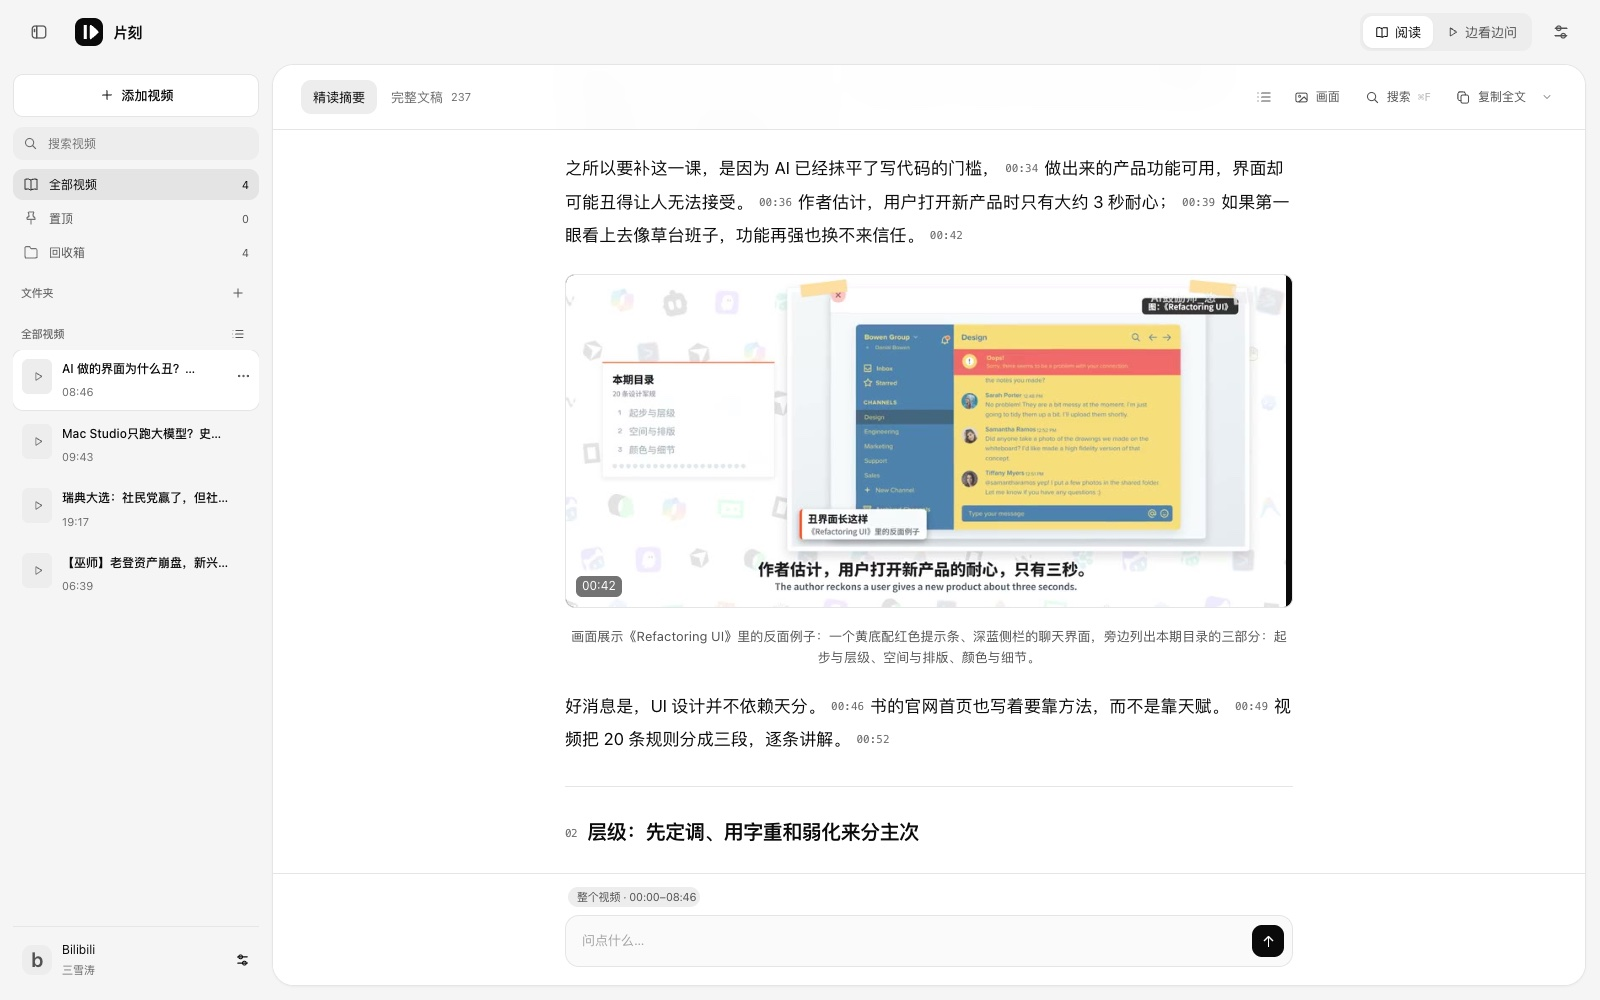
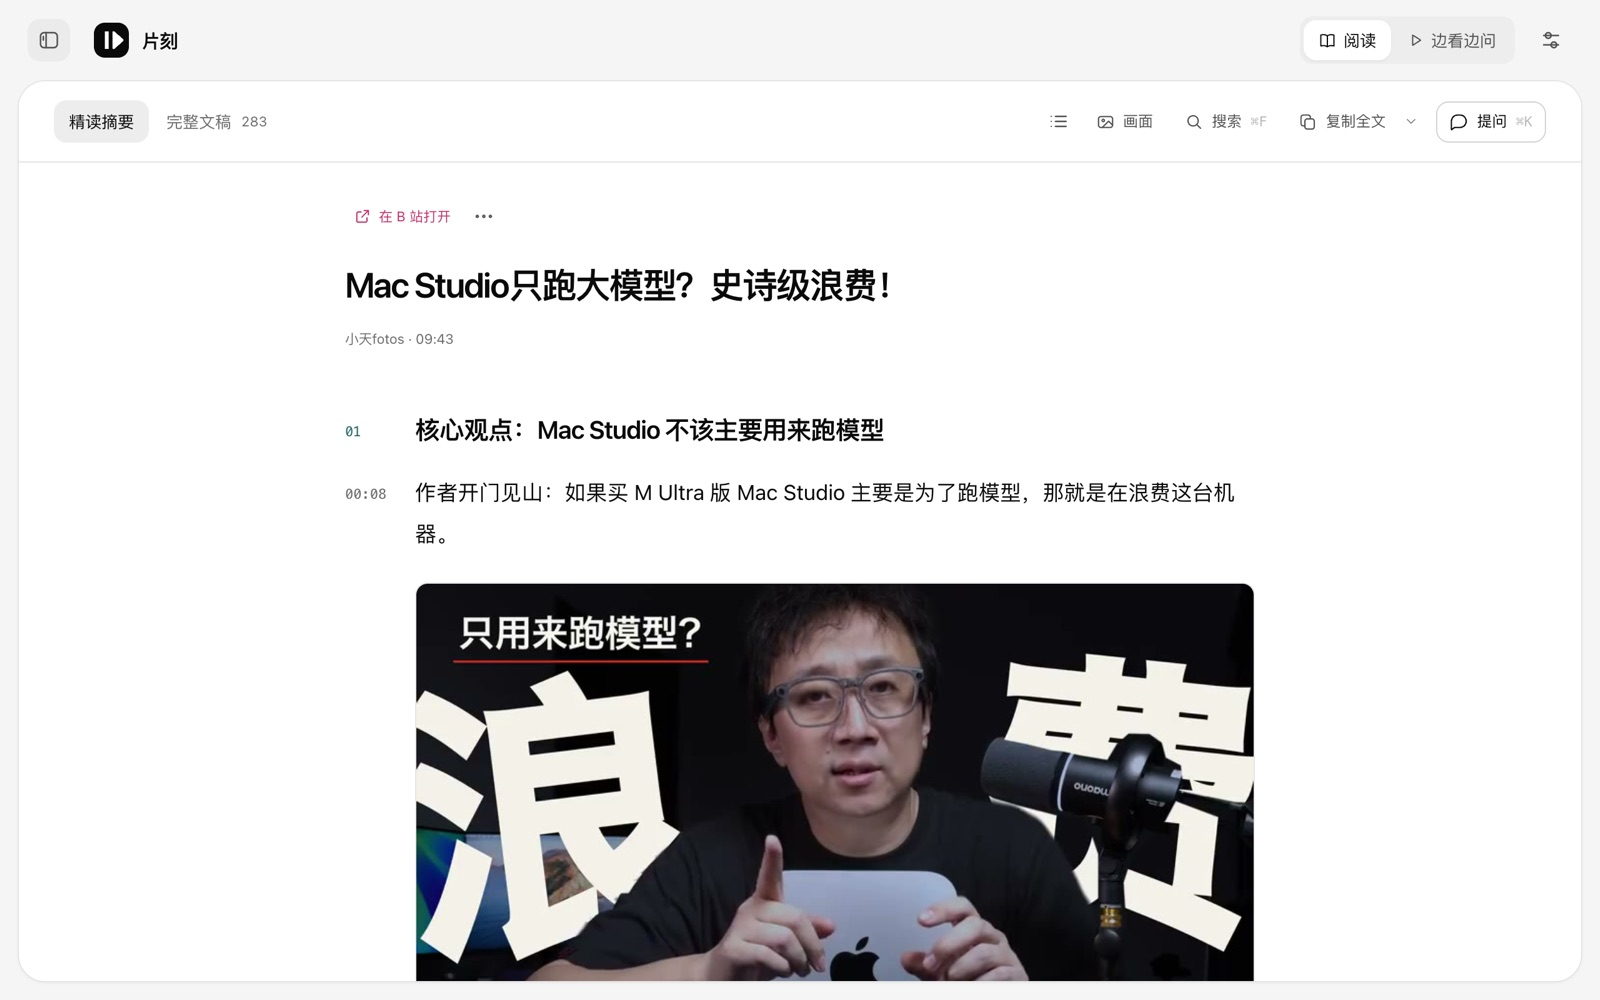
Show Pianke through pictures: its idea and three steps to use it (#2)
The project page now says what Pianke is for in one paragraph, then
shows how to use it in three illustrated steps: set up once (sign in to
Bilibili, add an API key), paste a Bilibili link, read and ask. The
features, data and notes lists give way to a single line on where
transcription runs. Every picture is a new screenshot of the current
reader on a Mac Studio video, with the sidebar closed and no account or
key details in view; the Watch and ask step spans the full width.

In the Projects list the English name is Pianke and the Chinese 片刻,
with the same new screenshots.

diff --git a/frontend/components/sections/Pianke.tsx b/frontend/components/sections/Pianke.tsx
@@ -11,128 +11,54 @@ type Text = Record<Lang, string>;
 // Always the newest release; scripts/release in the 片刻 repository keeps this name current.
 const DOWNLOAD_URL = "https://download.waynewangyuxuan.com/pianke/Pianke.dmg";
 
-const images: ProjectImage[] = [
-  {
-    src: "/projects/pianke-read.jpg",
-    alt: "Reading: a close-reading summary with key frames in the text",
-    label: { en: "Read", zh: "阅读" },
-  },
-  {
-    src: "/projects/pianke-watch.jpg",
-    alt: "Watch and ask: the player on the left, the text on the right",
-    label: { en: "Watch and ask", zh: "边看边问" },
-  },
-];
-
 const copy = {
   back: { en: "Projects", zh: "项目" },
   name: { en: "Pianke 片刻", zh: "片刻" },
-  tagline: {
-    en: "Turn Bilibili videos into text you can read, question and play back. Transcription runs on your own Mac.",
-    zh: "把 B 站视频变成能读、能问、能回看的文字。转写在你自己的 Mac 上完成。",
+  idea: {
+    en: "A good Bilibili video keeps its ideas locked in speech: you watch it start to finish, and finding one line again is hard. Pianke turns it into text you can read in minutes and question as you go, and every line takes you back to its moment in the video.",
+    zh: "B 站上的好视频，内容都锁在声音里：只能从头看到尾，想回头找一句话也难。片刻把它变成文字，几分钟读完，边读边问，每一句都能点回视频里的那一刻。",
   },
   download: { en: "Download for Mac", zh: "下载 Mac 版" },
   requirements: { en: "Apple silicon · macOS 26.2 or later · Free", zh: "Apple 芯片 · macOS 26.2 或更新 · 免费" },
-  featuresTitle: { en: "What it does", zh: "片刻能做什么" },
-  startTitle: { en: "Getting started", zh: "怎么开始" },
-  dataTitle: { en: "Where your data goes", zh: "你的数据在哪里" },
-  notesTitle: { en: "Good to know", zh: "需要知道的" },
+  howTitle: { en: "How it works", zh: "怎么用" },
+  privacy: {
+    en: "Transcription runs on your Mac. Only summaries and questions send text to the AI service you chose, with your own key.",
+    zh: "转写在你的 Mac 上完成。只有摘要和提问会把文字发给你选的 AI 服务，用的是你自己的 key。",
+  },
 } satisfies Record<string, Text>;
 
-const features: { title: Text; body: Text }[] = [
-  {
-    title: { en: "Close-reading summary", zh: "精读摘要" },
-    body: {
-      en: "Each video becomes notes in sections. Every claim carries the time of the words it rests on; click it to see the quote and play from there.",
-      zh: "把一期视频整理成分章节的笔记。每句结论都标着原话的时间点，点一下就能看到原话、从那里播放。",
-    },
-  },
-  {
-    title: { en: "Watch and ask", zh: "边看边问" },
-    body: {
-      en: "Ask while you watch. Answers draw only on what this video says, with the sources attached.",
-      zh: "边看边提问。回答只依据这期视频说过的话，并附上出处。",
-    },
-  },
-  {
-    title: { en: "Key frames", zh: "关键画面" },
-    body: {
-      en: "Slides, charts and screen demos are picked out and placed in the text. Click a frame to play the moment around it.",
-      zh: "自动挑出幻灯片、图表、界面演示这类画面，放进文字里。点一下画面，就播放那一刻前后的片段。",
-    },
-  },
-  {
-    title: { en: "Local transcription", zh: "本地转写" },
-    body: {
-      en: "Speech becomes timed text on your Mac. It tells speakers apart and can fix misheard words from context.",
-      zh: "声音在你的 Mac 上转成带时间的文字，能区分不同的说话人，也能根据上下文校对错字。",
-    },
-  },
+const hero: ProjectImage[] = [
+  { src: "/projects/pianke-read.jpg", alt: "Pianke reading a video as a summary in sections, with key frames in the text", label: { en: "Read", zh: "阅读" } },
 ];
 
-const steps: Text[] = [
+// A wide step shows its picture across the full column; the others sit beside their text.
+const steps: { title: Text; body: Text; image: ProjectImage; wide?: boolean }[] = [
   {
-    en: "Download Pianke, open the disk image and drag Pianke into Applications.",
-    zh: "下载片刻，打开磁盘映像，把片刻拖进「应用程序」。",
+    title: { en: "Set up once", zh: "准备一次" },
+    body: {
+      en: "Sign in to Bilibili from the menu bar, then add your API key for Claude, OpenAI or DeepSeek in Settings → AI services.",
+      zh: "在菜单栏登录哔哩哔哩，再到「设置 → AI 服务」填上你的 API key：Claude、OpenAI 或 DeepSeek 都行。",
+    },
+    image: { src: "/projects/pianke-ai.jpg", alt: "Settings, AI services: choose Claude, OpenAI or DeepSeek and a model", label: { en: "AI services", zh: "AI 服务" } },
   },
   {
-    en: "The first time it opens, pick a speech recognition model and download it once: Standard (about 481 MB) or Light (about 144 MB).",
-    zh: "第一次打开时，选一个语音识别模型下载一次：「标准」约 481 MB，「轻量」约 144 MB。",
+    title: { en: "Paste a link", zh: "粘贴一个链接" },
+    body: {
+      en: "Copy a Bilibili video link and paste it into Add video. That is the whole input; Pianke turns it into text on your Mac.",
+      zh: "复制一个 B 站视频链接，粘贴进「添加视频」。输入就这么多，片刻会在你的 Mac 上把它变成文字。",
+    },
+    image: { src: "/projects/pianke-add.jpg", alt: "Add video, with a Bilibili link pasted in", label: { en: "Add video", zh: "添加视频" } },
   },
   {
-    en: "Click Add video and paste a Bilibili link. BV ids, av ids and b23.tv short links all work.",
-    zh: "点「添加视频」，粘贴 B 站链接。BV 号、av 号、b23.tv 短链接都可以。",
-  },
-  {
-    en: "Optional: for summaries and questions, connect Claude, OpenAI or DeepSeek with your own API key in Settings → AI services.",
-    zh: "可选：要用精读摘要和提问，在「设置 → AI 服务」里连接 Claude、OpenAI 或 DeepSeek，填入你自己的 API key。",
-  },
-];
-
-const data: Text[] = [
-  {
-    en: "Audio is transcribed on your Mac and never uploaded. Pianke keeps no video files.",
-    zh: "视频的声音在你的 Mac 上转写，不会上传。片刻不保存视频文件。",
-  },
-  {
-    en: "Only summaries and questions send the transcript text and chosen frames to the AI service you chose, under your own key.",
-    zh: "只有用精读摘要和提问时，文稿文字和挑出的画面才会发给你选的 AI 服务，使用你自己的 key。",
-  },
-  {
-    en: "Your API key stays in the macOS keychain; the interface shows only its last four characters.",
-    zh: "API key 保存在 macOS 钥匙串里，界面上只显示最后四位。",
-  },
-  {
-    en: "Your Bilibili sign-in stays on this Mac and only Pianke can read it.",
-    zh: "B 站登录只保存在这台 Mac 上，只有片刻能读取。",
+    title: { en: "Read and ask", zh: "读，然后问" },
+    body: {
+      en: "Read the summary in sections, or ask while you watch. Answers cite the video, and every time stamp plays that moment.",
+      zh: "读分章节的精读摘要，或者边看边问。回答都标着出处，点时间就播放那一刻。",
+    },
+    image: { src: "/projects/pianke-watch.jpg", alt: "Watch and ask: a question answered beside the player", label: { en: "Watch and ask", zh: "边看边问" } },
+    wide: true,
   },
 ];
-
-const notes: Text[] = [
-  {
-    en: "Pianke is signed and notarized by Apple, and keeps itself up to date: it checks for a new version once a day, or whenever you choose Check for Updates.",
-    zh: "片刻经过 Apple 签名和公证，会自己保持最新：每天检查一次新版本，也可以随时点「检查更新…」。",
-  },
-  {
-    en: "Summaries and questions use your own API key; the service you chose charges by usage.",
-    zh: "精读摘要和提问使用你自己的 API key，费用由所选服务按用量收取。",
-  },
-  {
-    en: "Automatic transcription makes mistakes, especially with names and terms. Every quote links back to the original words.",
-    zh: "自动转写会有错字，专有名词尤其容易出错。所有引用都能点回原话核对。",
-  },
-];
-
-function List({ items, lang, ordered }: { items: Text[]; lang: Lang; ordered?: boolean }) {
-  const Tag = ordered ? "ol" : "ul";
-  return (
-    <Tag className={`space-y-3 pl-5 text-base text-[var(--muted)] leading-relaxed ${ordered ? "list-decimal" : "list-disc"}`}>
-      {items.map((item) => (
-        <li key={item.en}>{item[lang]}</li>
-      ))}
-    </Tag>
-  );
-}
 
 export function Pianke() {
   const { lang } = useI18n();
@@ -153,7 +79,7 @@ export function Pianke() {
             <img src="/projects/pianke-icon.png" alt="" width={64} height={64} className="rounded-[14px]" />
             <h1 className="text-4xl md:text-5xl font-medium tracking-tight">{copy.name[lang]}</h1>
           </div>
-          <p className="mt-6 text-lg text-[var(--muted)] leading-relaxed max-w-xl">{copy.tagline[lang]}</p>
+          <p className="mt-6 text-lg text-[var(--muted)] leading-relaxed max-w-2xl">{copy.idea[lang]}</p>
           <div className="mt-8 flex flex-wrap items-center gap-x-6 gap-y-3">
             <a
               href={DOWNLOAD_URL}
@@ -166,36 +92,33 @@ export function Pianke() {
         </ScrollReveal>
 
         <ScrollReveal>
-          <div className="mt-12">
-            <ProjectImages images={images} lang={lang} />
+          <div className="mt-10">
+            <ProjectImages images={hero} lang={lang} />
           </div>
         </ScrollReveal>
 
         <ScrollReveal>
-          <p className="section-label mt-20 mb-8">{copy.featuresTitle[lang]}</p>
-          <div className="grid gap-x-10 gap-y-8 md:grid-cols-2">
-            {features.map((feature) => (
-              <div key={feature.title.en}>
-                <h2 className="text-lg font-medium mb-2">{feature.title[lang]}</h2>
-                <p className="text-base text-[var(--muted)] leading-relaxed">{feature.body[lang]}</p>
-              </div>
-            ))}
-          </div>
+          <p className="section-label mt-24 mb-10">{copy.howTitle[lang]}</p>
         </ScrollReveal>
+        <ol className="space-y-16">
+          {steps.map((step, index) => (
+            <ScrollReveal key={step.title.en}>
+              <li className={step.wide ? "" : "grid gap-6 md:grid-cols-[minmax(0,2fr)_minmax(0,3fr)] md:items-center md:gap-10"}>
+                <div className={step.wide ? "max-w-xl" : ""}>
+                  <span className="mono text-xs text-[var(--gray-600)]">0{index + 1}</span>
+                  <h2 className="mt-2 text-2xl font-medium tracking-tight">{step.title[lang]}</h2>
+                  <p className="mt-3 text-base text-[var(--muted)] leading-relaxed">{step.body[lang]}</p>
+                </div>
+                <div className={step.wide ? "" : "-mt-6"}>
+                  <ProjectImages images={[step.image]} lang={lang} />
+                </div>
+              </li>
+            </ScrollReveal>
+          ))}
+        </ol>
 
         <ScrollReveal>
-          <p className="section-label mt-20 mb-8">{copy.startTitle[lang]}</p>
-          <List items={steps} lang={lang} ordered />
-        </ScrollReveal>
-
-        <ScrollReveal>
-          <p className="section-label mt-20 mb-8">{copy.dataTitle[lang]}</p>
-          <List items={data} lang={lang} />
-        </ScrollReveal>
-
-        <ScrollReveal>
-          <p className="section-label mt-20 mb-8">{copy.notesTitle[lang]}</p>
-          <List items={notes} lang={lang} />
+          <p className="mt-20 text-sm text-[var(--gray-600)] leading-relaxed max-w-2xl">{copy.privacy[lang]}</p>
         </ScrollReveal>
       </div>
     </section>

diff --git a/frontend/components/sections/Projects.tsx b/frontend/components/sections/Projects.tsx
@@ -18,6 +18,8 @@ export interface ProjectImage {
 interface Project {
   slug: string;
   name: string;
+  // Shown in Chinese when the name differs, e.g. Pianke / 片刻.
+  nameZh?: string;
   line: Record<Lang, string>;
   url: string;
   place: string;
@@ -27,7 +29,8 @@ interface Project {
 const projectsData: Project[] = [
   {
     slug: "pianke",
-    name: "片刻",
+    name: "Pianke",
+    nameZh: "片刻",
     line: {
       en: "Turn Bilibili videos into text you can read, question and play back.",
       zh: "把 B 站视频变成能读、能问、能回看的文字。",
@@ -38,12 +41,12 @@ const projectsData: Project[] = [
     images: [
       {
         src: "/projects/pianke-read.jpg",
-        alt: "Pianke reading a close-reading summary with key frames in the text",
+        alt: "Pianke reading a video about the Mac Studio: a summary in sections with key frames",
         label: { en: "Read", zh: "阅读" },
       },
       {
         src: "/projects/pianke-watch.jpg",
-        alt: "Pianke with the player on the left and the text on the right",
+        alt: "Pianke answering a question beside the player, with the summary on the right",
         label: { en: "Watch and ask", zh: "边看边问" },
       },
     ],
@@ -228,7 +231,7 @@ export function Projects() {
             <>
               <div className="flex items-baseline justify-between gap-6 mb-2">
                 <h3 className="text-2xl font-medium tracking-tight group-hover:opacity-70 transition-opacity">
-                  {project.name}
+                  {lang === "zh" && project.nameZh ? project.nameZh : project.name}
                 </h3>
                 <span className="mono text-xs text-[var(--gray-600)] shrink-0">
                   {project.place} {internal ? "→" : "↗"}
